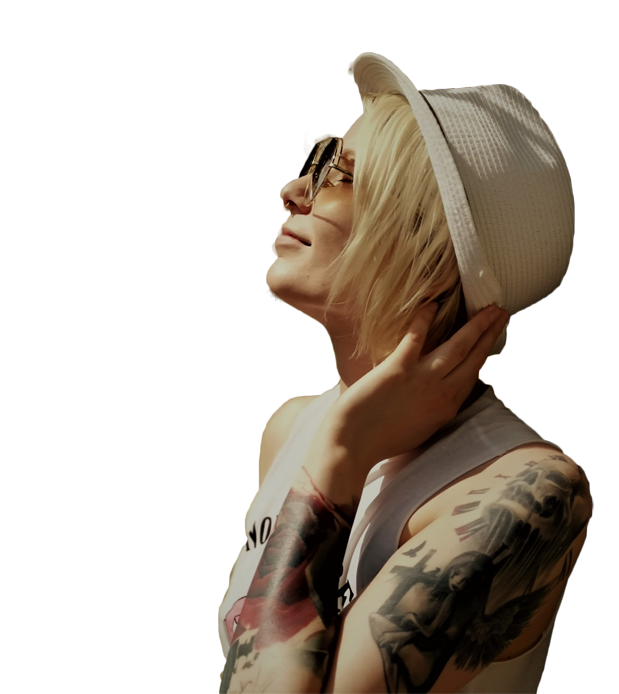
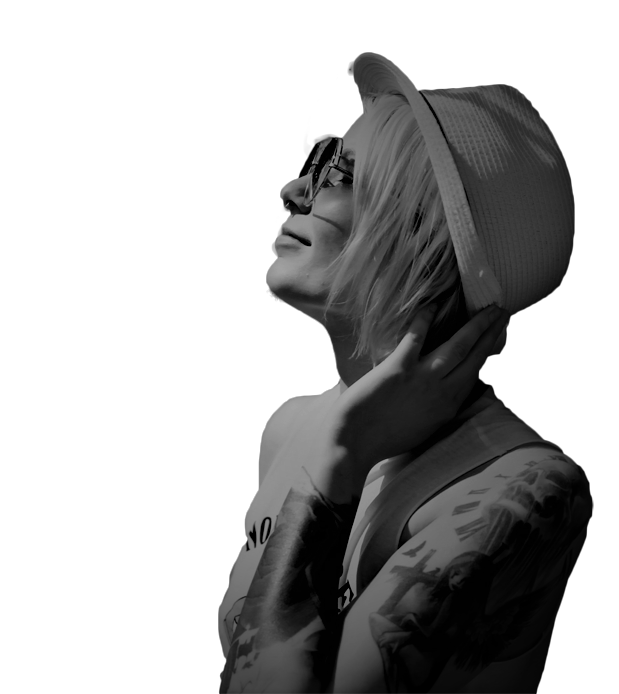
Styled About section.

diff --git a/src/components/About/About.js b/src/components/About/About.js
@@ -1,32 +1,41 @@
 import React, { Component } from 'react';
 import classes from './About.module.css';
-import imgAbout from '../../assets/images/me.png';
+import imgbg from '../../assets/images/me.png';
 
 class About extends Component {
   render() {
     return (
       <div className={classes.About} id='about'>
-        <img src={imgAbout} className={classes.AboutImg} alt='' />
-        <div className={classes.AboutText}>
-          <h1>About Me .</h1>
-          <p>
-            I did a lot of things in my life, I was a sales representative, pub
-            manager, and even a physical worker in a warehouse where I was the
-            only girl on a shift. However, for a long time I did not know what
-            to do in my life, I couldn't find my path until I finally came
-            across programming by accident. <br />
-            <br /> I started my adventure with programming at the end of 2019
-            and since then I am sure that this is what I want to do in my life.
-            I mainly focus on the frontend: JavaScript, React.js, CSS, because I
-            have an artistic soul and thanks to this activity I can use my
-            creativity. So far, I study alone at home, but my dream and main
-            goal is to find a job in a company where I could become a part of a
-            professional team and build a long-term career. <br />
-            <br /> I am a determined person who likes challenges and I always
-            give 200% of myself to achieve the intended goal.
-          </p>
+        <div className={classes.AboutImg}>
+          <img src={imgbg} alt='' />
         </div>
-        <button className={classes.AboutButton}>My CV</button>
+        <div className={classes.AboutText}>
+          <h1>about me.</h1>
+          <div className={classes.BoxText}>
+            <p>
+              I did a lot of things in my life, I was a sales representative,
+              pub manager, and even a physical worker in a warehouse where I was
+              the only girl on a shift. However, for a long time I did not know
+              what to do in my life, I couldn't find my path until I finally
+              came across programming. <br />
+              <br /> I started my adventure with programming at the end of 2019
+              and since then I am sure that this is what I want to do in my
+              life. I mainly focus on the frontend: JavaScript, React.js, CSS,
+              because I have an artistic soul and thanks to this activity I can
+              use my creativity. So far, I study alone at home, but my dream and
+              main goal is to find a job in a company where I could become a
+              part of a professional team and build a long-term career. <br />
+              <br /> I am a determined person who likes challenges and I always
+              give 200% of myself to achieve the intended goal.
+            </p>
+          </div>
+        </div>
+        <div className={classes.DownloadLink}>
+          <a href='/'>Download my CV</a>
+          <div className={classes.Line}>
+            <hr />
+          </div>
+        </div>
       </div>
     );
   }

diff --git a/src/components/About/About.module.css b/src/components/About/About.module.css
@@ -4,75 +4,74 @@
   display: flex;
   justify-content: center;
   align-items: center;
-  background-color: #e7d1d3;
+  background-color: #1d2228;
   max-width: 1300px;
   margin: auto;
-  box-shadow: 0px 5px 70px 3px rgba(255, 179, 164, 0.57);
 }
 
 .AboutImg {
   display: block;
-  padding: 20px 20px;
-  height: 88vh;
-  width: 54%;
-  top: -5%;
+  height: 100vh;
+  width: 60%;
+  top: 0;
   left: 40%;
+  opacity: 0.5;
   position: absolute;
-  box-shadow: 0px 5px 70px 3px rgba(255, 179, 164, 0.57);
 }
 
-.bckgImg {
-  width: 100%;
+.AboutImg img {
   height: 100%;
+  width: 100%;
 }
 
 .AboutText {
   position: absolute;
-  color: #181617;
-  width: 367px;
-  line-height: 20px;
   letter-spacing: 1px;
-  left: 6%;
-  margin-bottom: 186px;
+  left: -22%;
+  bottom: 37%;
 }
 
 .AboutText h1 {
-  font-family: 'Indie Flower', cursive, sans-serif;
-  font-size: 39px;
+  font-family: 'Montserrat', sans-serif;
+  font-size: 135px;
+  transform: rotate(-90deg);
+  color: rgb(253, 187, 45, 0.1);
 }
 
-.AboutText p {
+.BoxText {
   font-family: 'Montserrat', sans-serif;
   font-size: 15px;
+  position: absolute;
+  left: 68%;
+  width: 500px;
+  height: 500px;
+  bottom: -5%;
+  line-height: 30px;
+  color: #ffbe2d;
 }
 
-.AboutButton {
+.DownloadLink {
   position: absolute;
-  margin-left: -58%;
-  margin-top: 465px;
-  color: #181617;
-  text-transform: uppercase;
+  font-family: 'Montserrat', sans-serif;
+  left: 27%;
+  bottom: 20%;
+  width: 200px;
+  height: 23px;
+  letter-spacing: 2px;
+}
+
+.DownloadLink a {
+  color: #ff4046;
   text-decoration: none;
-  letter-spacing: 1px;
-  background: transparent;
-  padding: 20px;
-  cursor: pointer;
-  display: inline-block;
-  border: none;
-  transition: all 0.3s ease 0s;
-  width: 180px;
-  box-shadow: 0px 5px 105px 3px rgb(255, 179, 164, 0.57);
+}
+.DownloadLink a:hover {
+  color: #ffbe2d;
 }
 
-.AboutButton:hover {
-  text-shadow: 0px 0px 7px rgba(255, 179, 164, 1);
-  box-shadow: 0px 5px 70px 3px rgba(255, 179, 164, 0.57);
-  transition: all 0.4s ease 0s;
-  border: none;
+.Line {
+  width: 500px;
 }
 
-.Progressbar {
-  position: absolute;
-  width: 800px;
-  top: 620px;
+.Line hr {
+  border: 1px solid #ff4046;
 }

diff --git a/public/index.html b/public/index.html
@@ -3,13 +3,9 @@
 
 <head>
   <meta charset="utf-8" />
-  <link rel="icon" href="%PUBLIC_URL%/favicon.ico" />
   <meta name="viewport" content="width=device-width, initial-scale=1" />
   <meta name="theme-color" content="#000000" />
-  <meta name="description" content="Web site created using create-react-app" />
-  <link rel="apple-touch-icon" href="%PUBLIC_URL%/logo192.png" />
-  <link rel="manifest" href="%PUBLIC_URL%/manifest.json" />
-  <link rel="preconnect" href="https://fonts.gstatic.com">
+  <link rel="shortcut icon" href="%PUBLIC_URL%/favicon.ico">
   <link
     href="https://fonts.googleapis.com/css2?family=Amatic+SC:wght@400;700&family=Open+Sans&family=Roboto&display=swap"
     rel="stylesheet">
@@ -29,16 +25,6 @@
 <body>
   <noscript>You need to enable JavaScript to run this app.</noscript>
   <div id="root"></div>
-  <!--
-      This HTML file is a template.
-      If you open it directly in the browser, you will see an empty page.
-
-      You can add webfonts, meta tags, or analytics to this file.
-      The build step will place the bundled scripts into the <body> tag.
-
-      To begin the development, run `npm start` or `yarn start`.
-      To create a production bundle, use `npm run build` or `yarn build`.
-    -->
 </body>
 
 </html>

diff --git a/src/components/Home/Home.js b/src/components/Home/Home.js
@@ -12,7 +12,7 @@ class Home extends Component {
             <h1>
               I'm <br /> Izabela. <br />
             </h1>
-            <h5>Junior Frontend Developer.</h5>
+            <h5>Junior Frontend Developer</h5>
           </div>
           <div className={classes.BoxTwo}>
             <p>

diff --git a/src/components/Navigation/Navigationitems/NavigationItem/NawigationItem.module.css b/src/components/Navigation/Navigationitems/NavigationItem/NawigationItem.module.css
@@ -32,12 +32,12 @@
     color: #181617;
     height: 100%;
     padding: 10px 20px;
+    font-weight: bold;
   }
 
   .NavigationItem a:hover,
   .NavigationItem a:active,
   .NavigationItem a.active {
-    border-bottom: solid 1px #ff4046;
     color: #ff4046;
   }
 }
